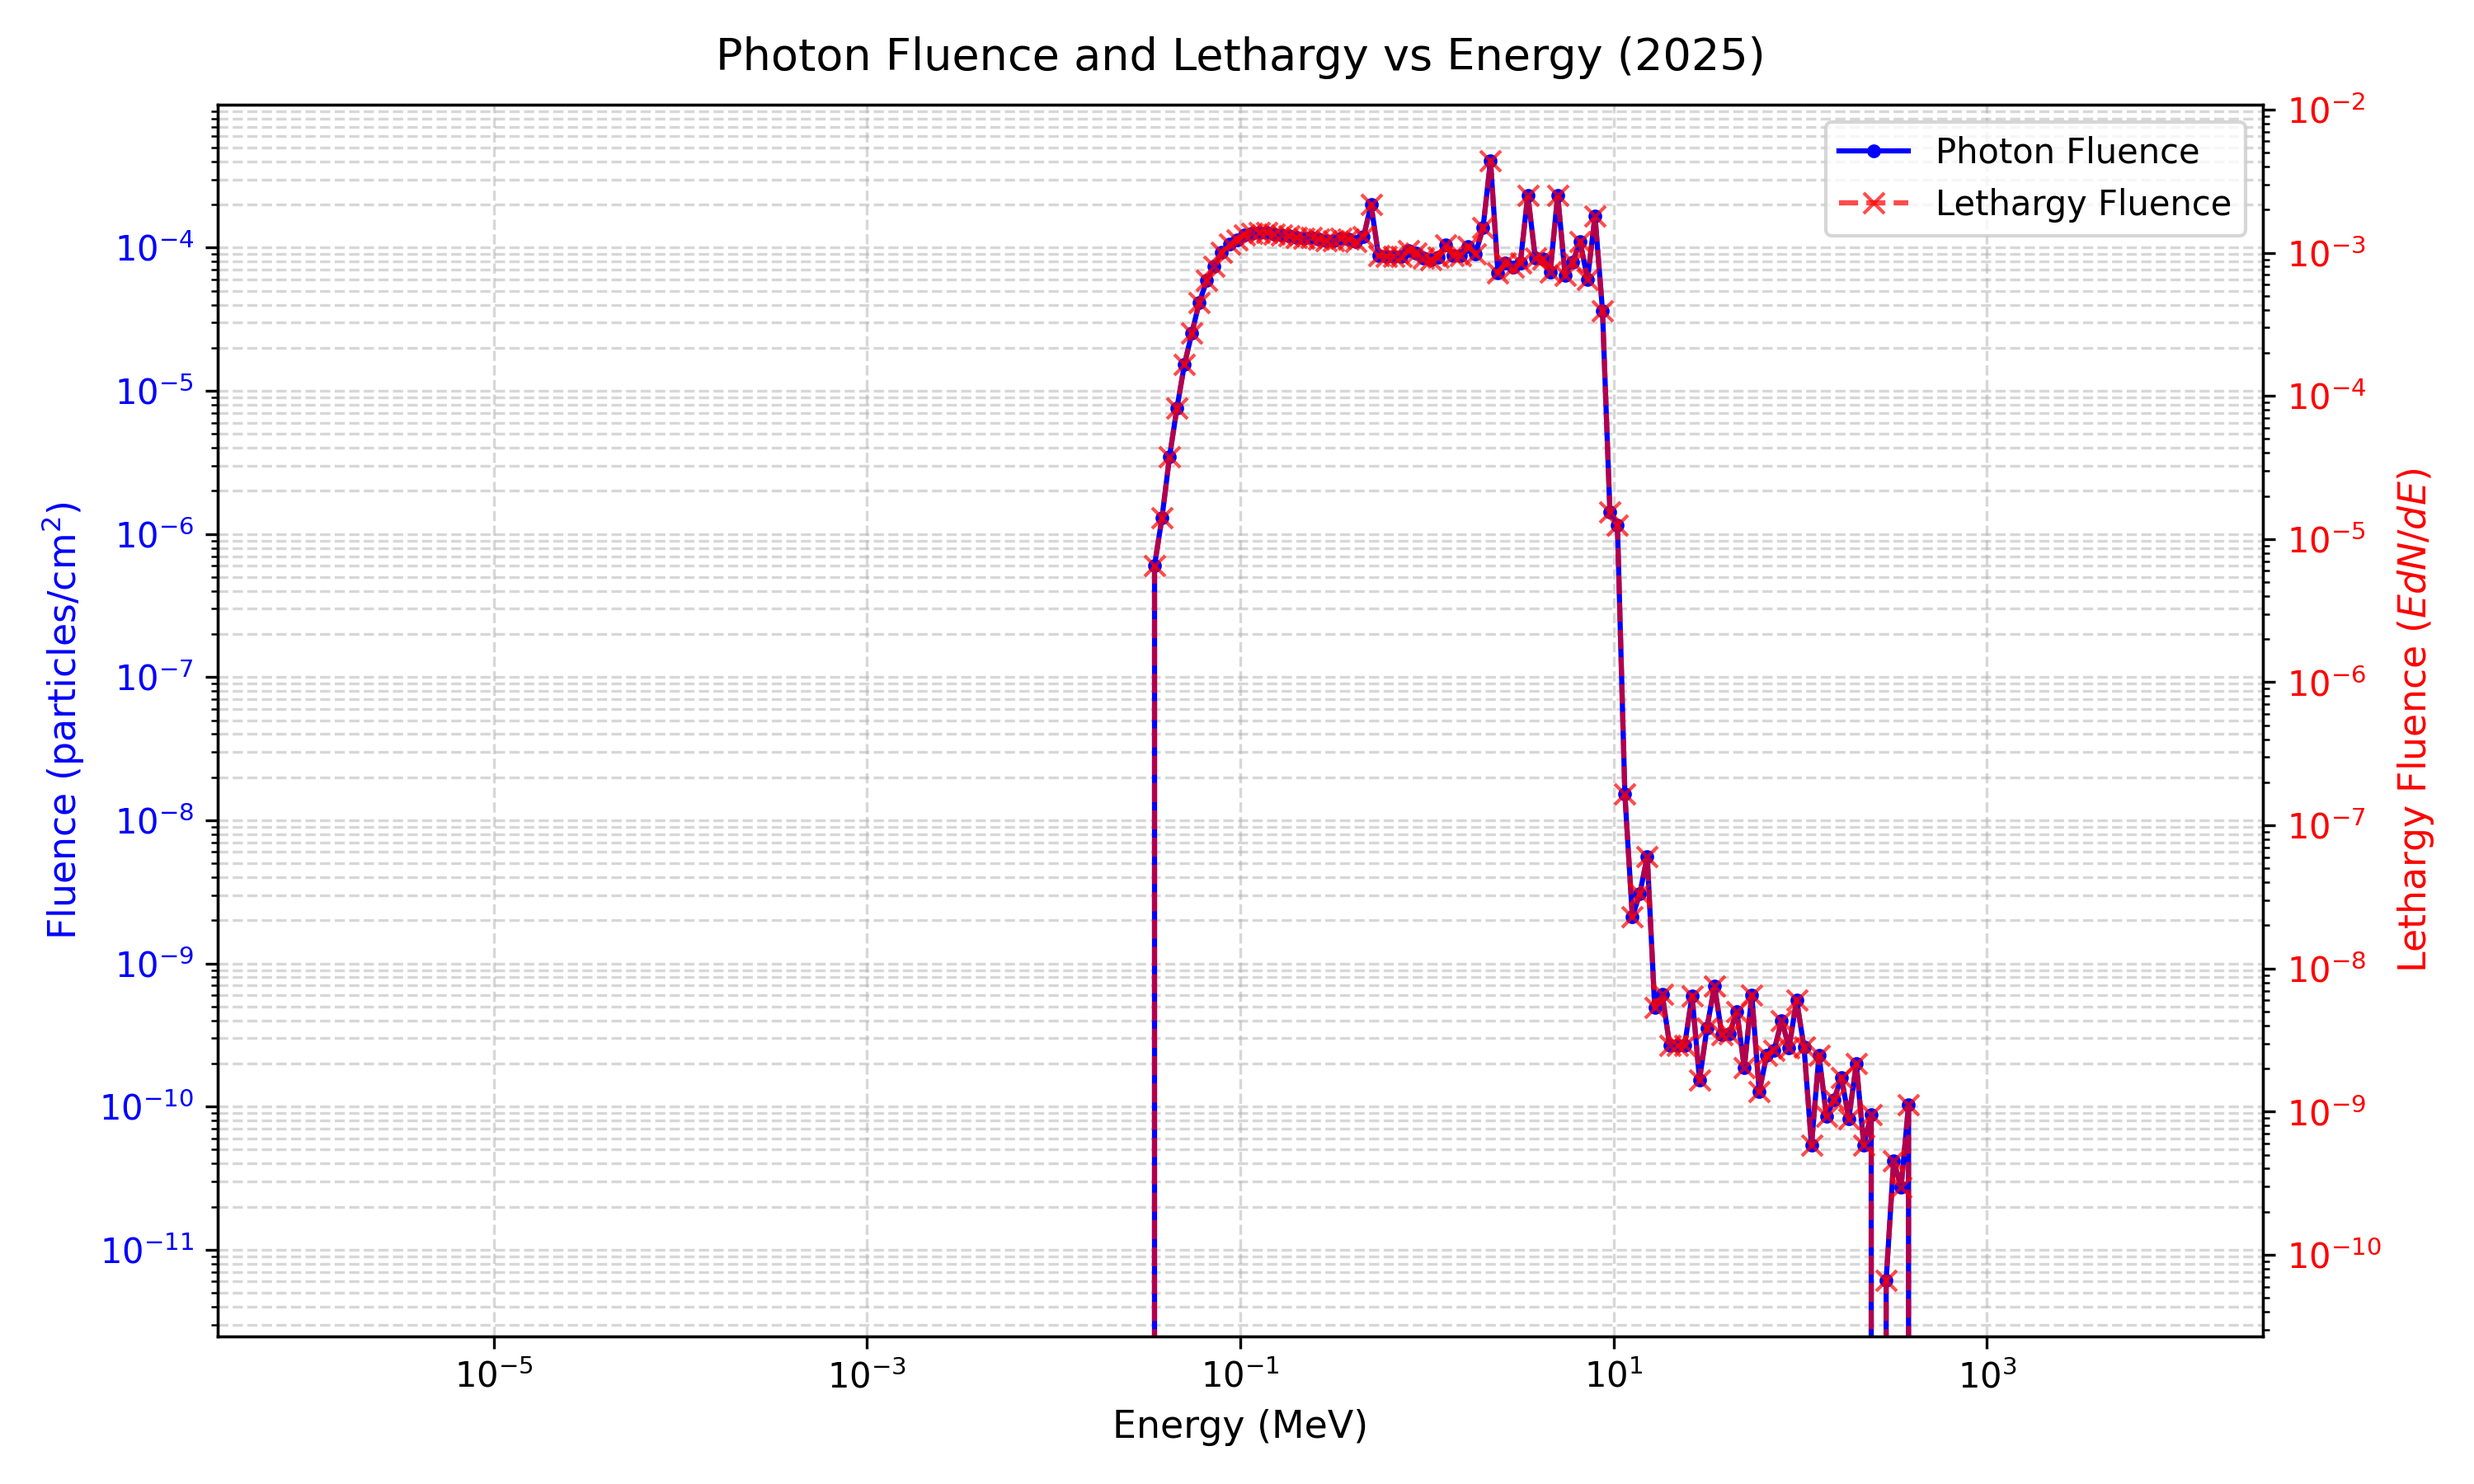
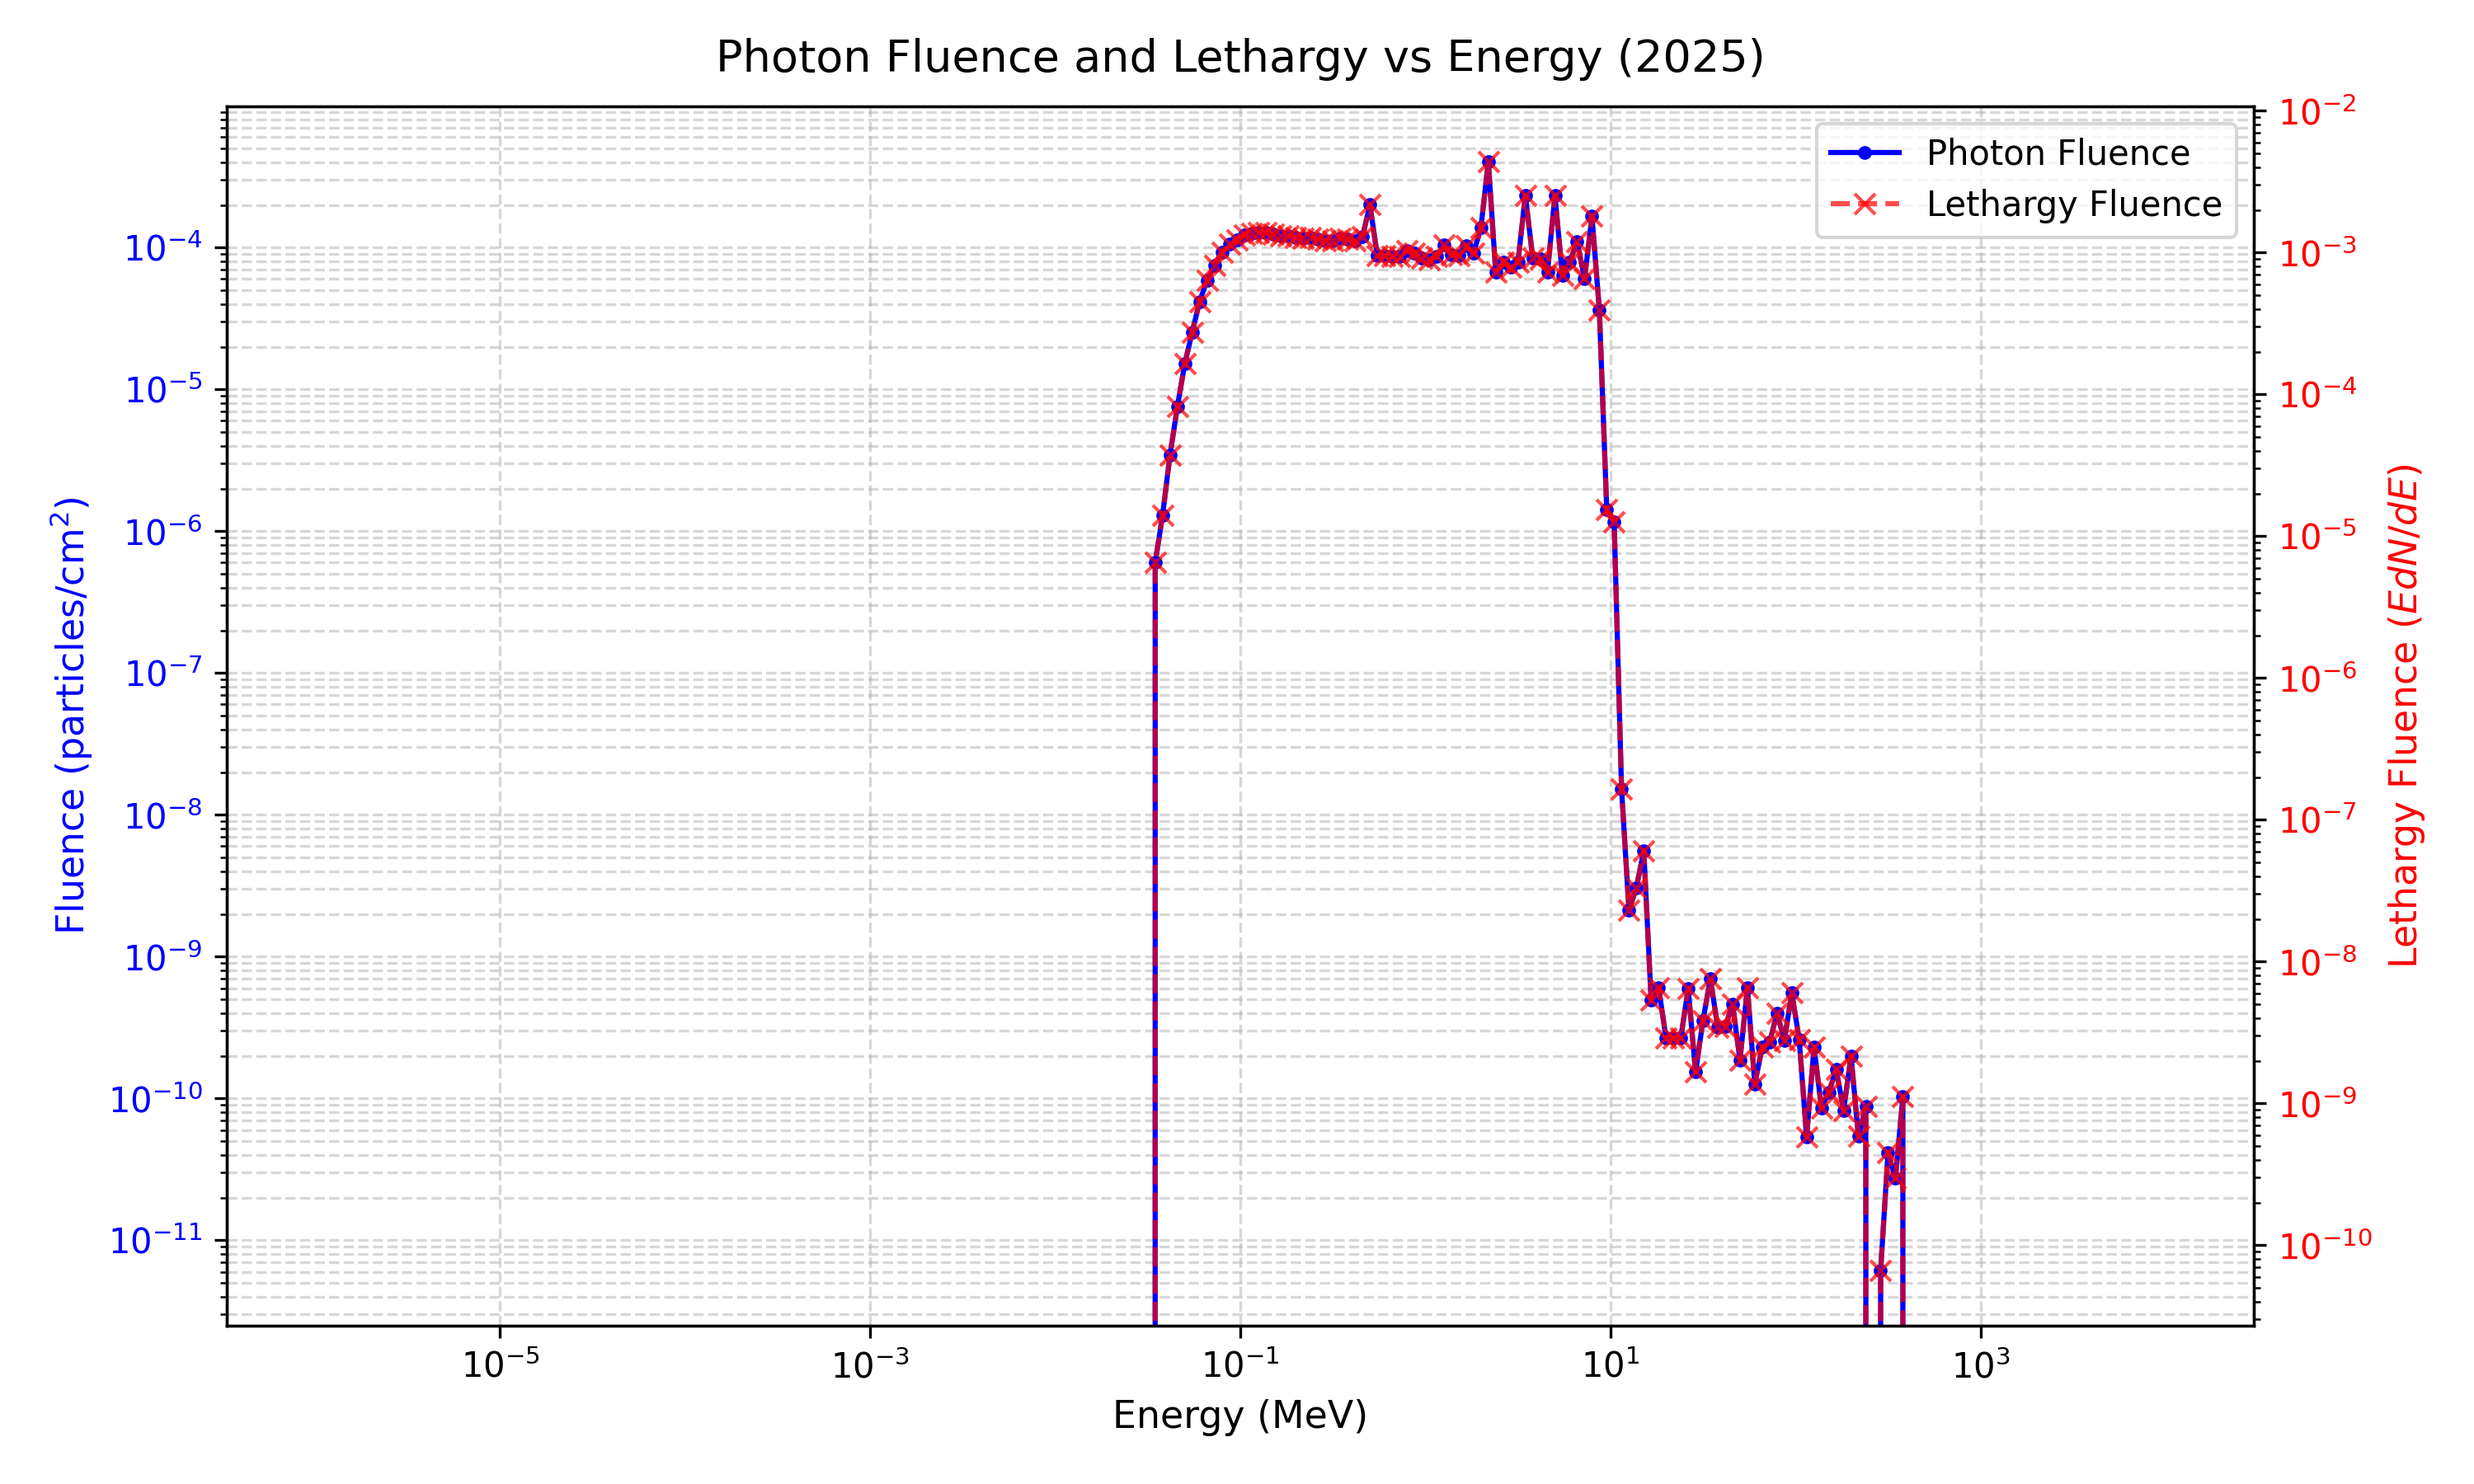
Do not show plots in nausicaa folding
Avoid showing a plot when it is created.

Changed region(s): [[0.0, 0.0311, 0.992, 0.9644]]

diff --git a/SwissFEL25/NAUSICAA_responsefolding/NAUSICAA_folding.py b/SwissFEL25/NAUSICAA_responsefolding/NAUSICAA_folding.py
@@ -1,4 +1,6 @@
 import numpy as np
+import matplotlib
+matplotlib.use('Agg')
 import matplotlib.pyplot as plt
 
 # This is the low energy bin side for energy of the photon spectrum at position 4, i.e. the highest position of the NAUSICAA at the SwissFEL 2025 campaign.
@@ -130,7 +132,7 @@ ax.legend(loc='upper right', frameon=True, facecolor='#f7f7f7')
 
 plt.tight_layout()
 plt.savefig('nausicaa_fixed_response_plot.png', dpi=300)
-plt.show()
+plt.close()
 
 # Source Data 1: ICRP 74 Fluence-to-H*(10) for photons (ends at 10 MeV) ---
 # Higher energies extension from Pelliccioni
@@ -274,7 +276,7 @@ ax_bot.set_ylim(-0.5, 12.0)
 
 # Remove plt.tight_layout() as constrained_layout handles it now
 plt.savefig('nausicaa_response_fluence_stacked.png', dpi=300)
-plt.show()
+plt.close()
 
 # ==============================================================================
 # --- PLOTTING: FLUKA FLUENCE + NAUSICAA RESPONSE + ICRU COEFFICIENTS ---
@@ -314,4 +316,4 @@ ax_bot.legend(loc='lower right')
 ax_bot.set_xlim(E_center.min(), E_center.max())
 
 plt.savefig('photon_fluence_response_icru_stacked.png', dpi=300)
-plt.show()
+plt.close()
